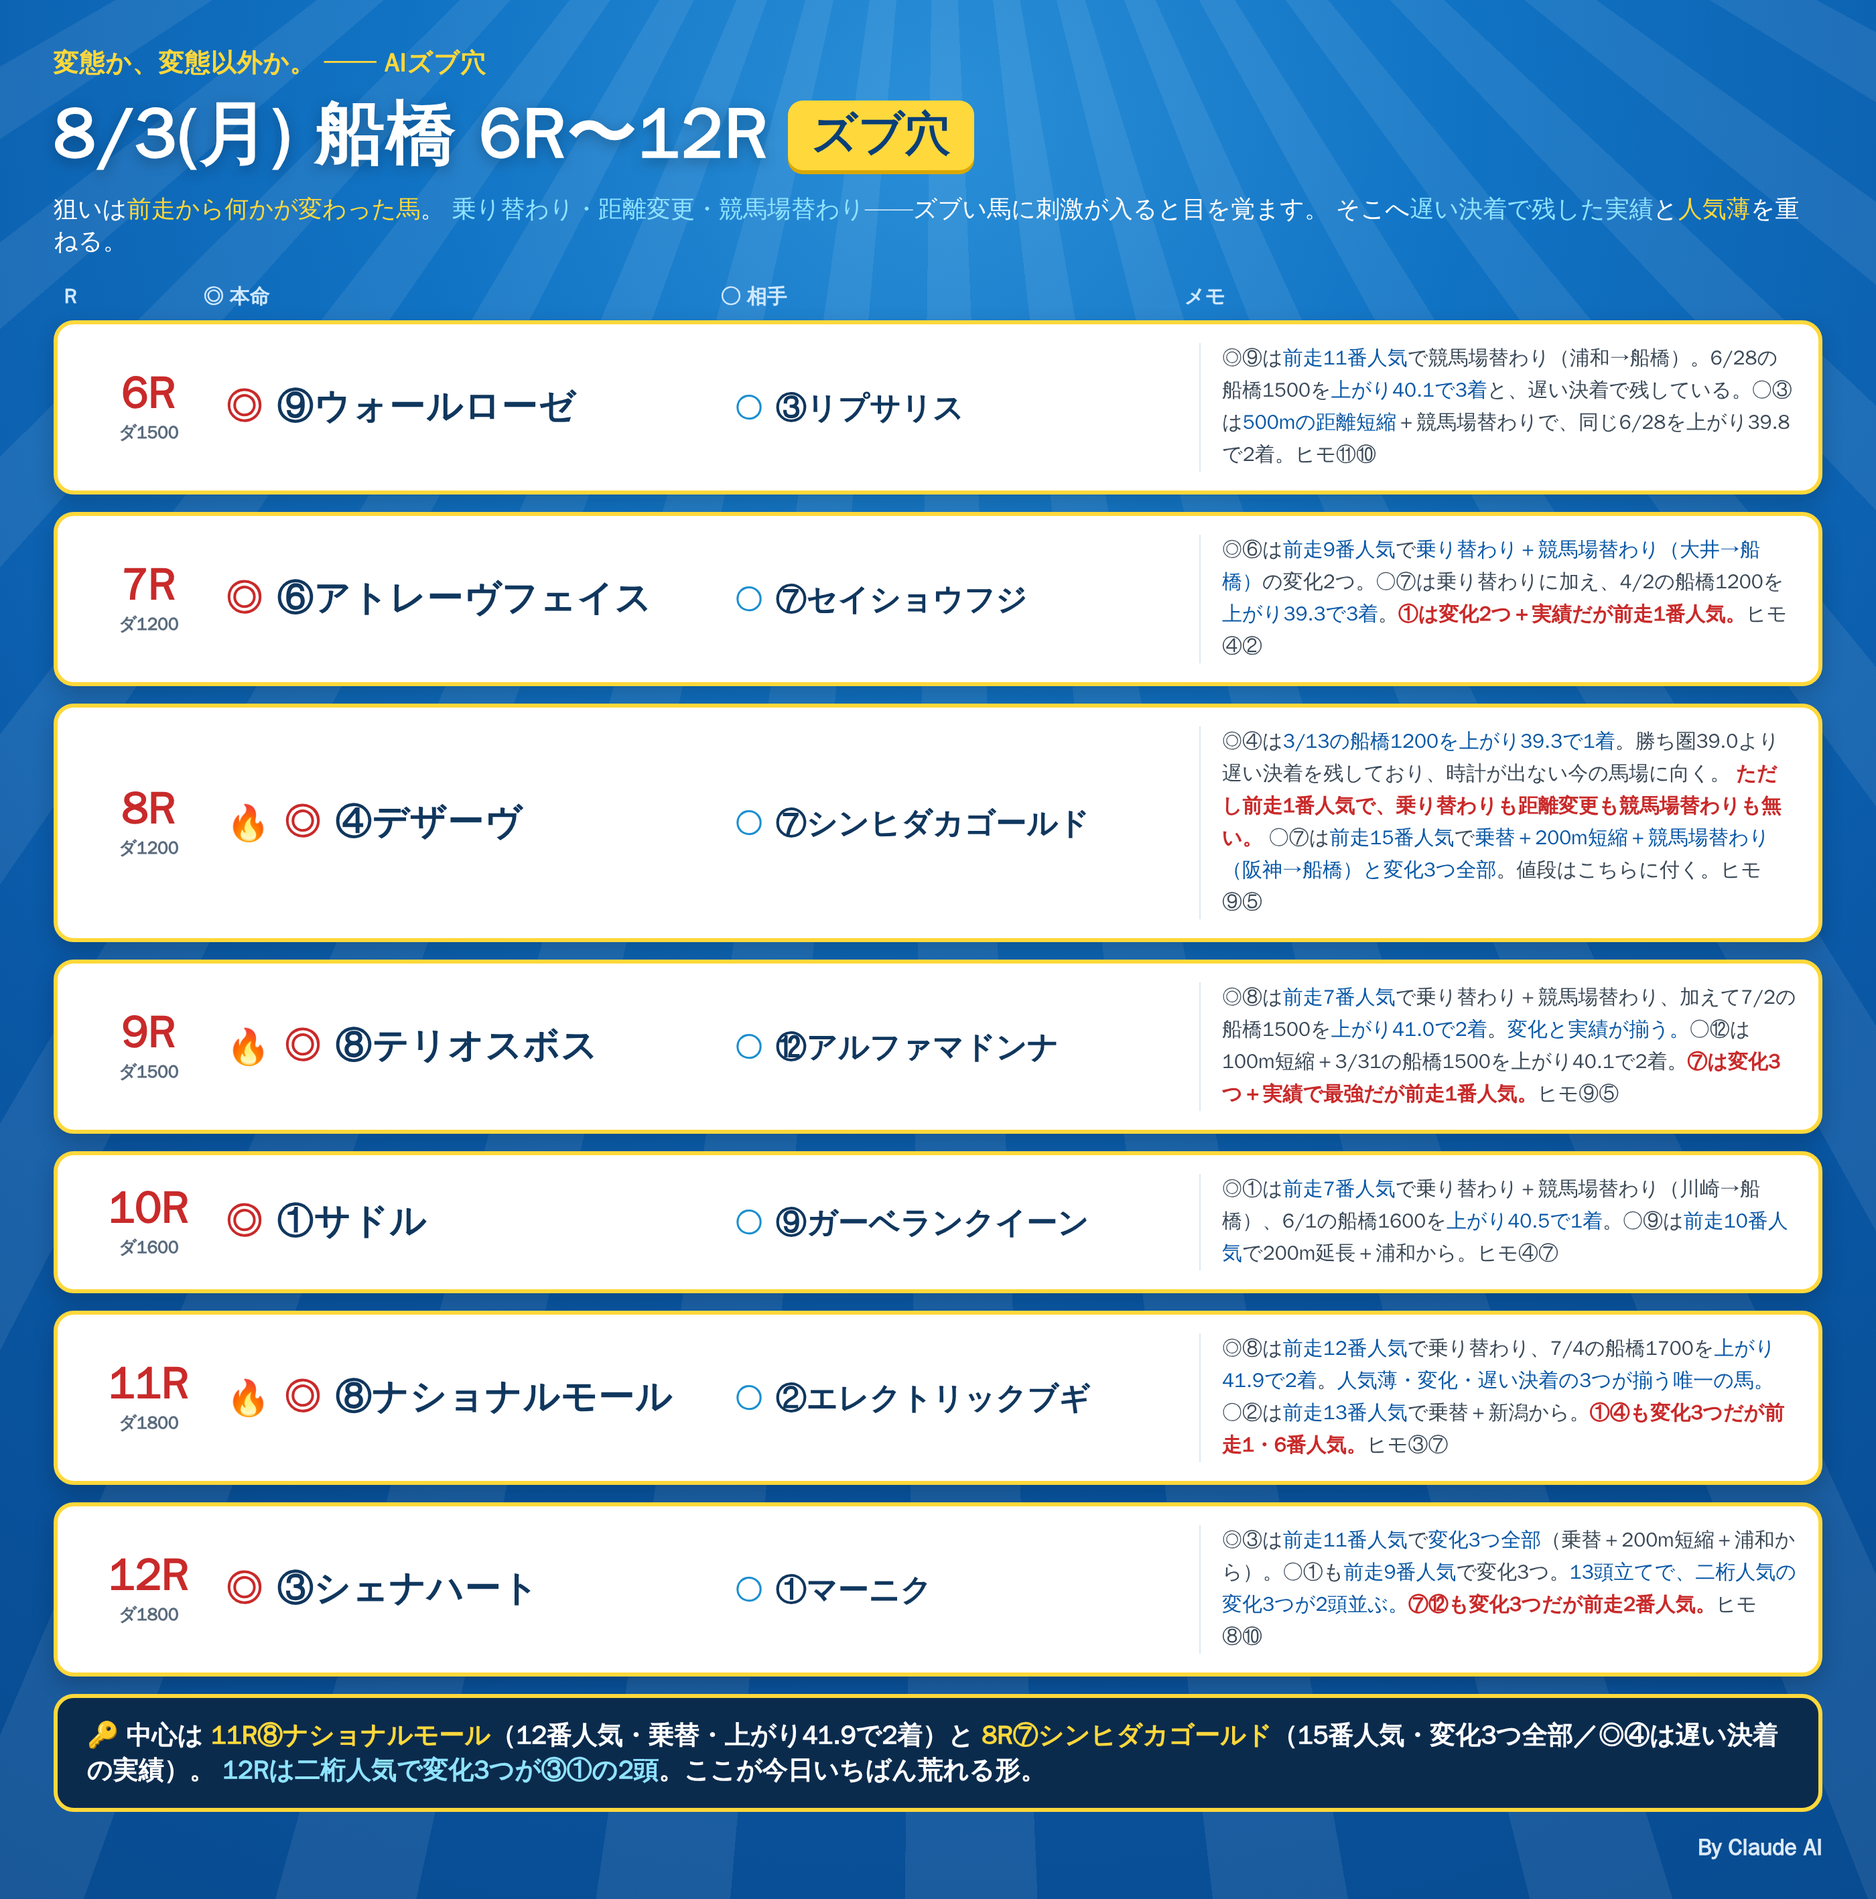
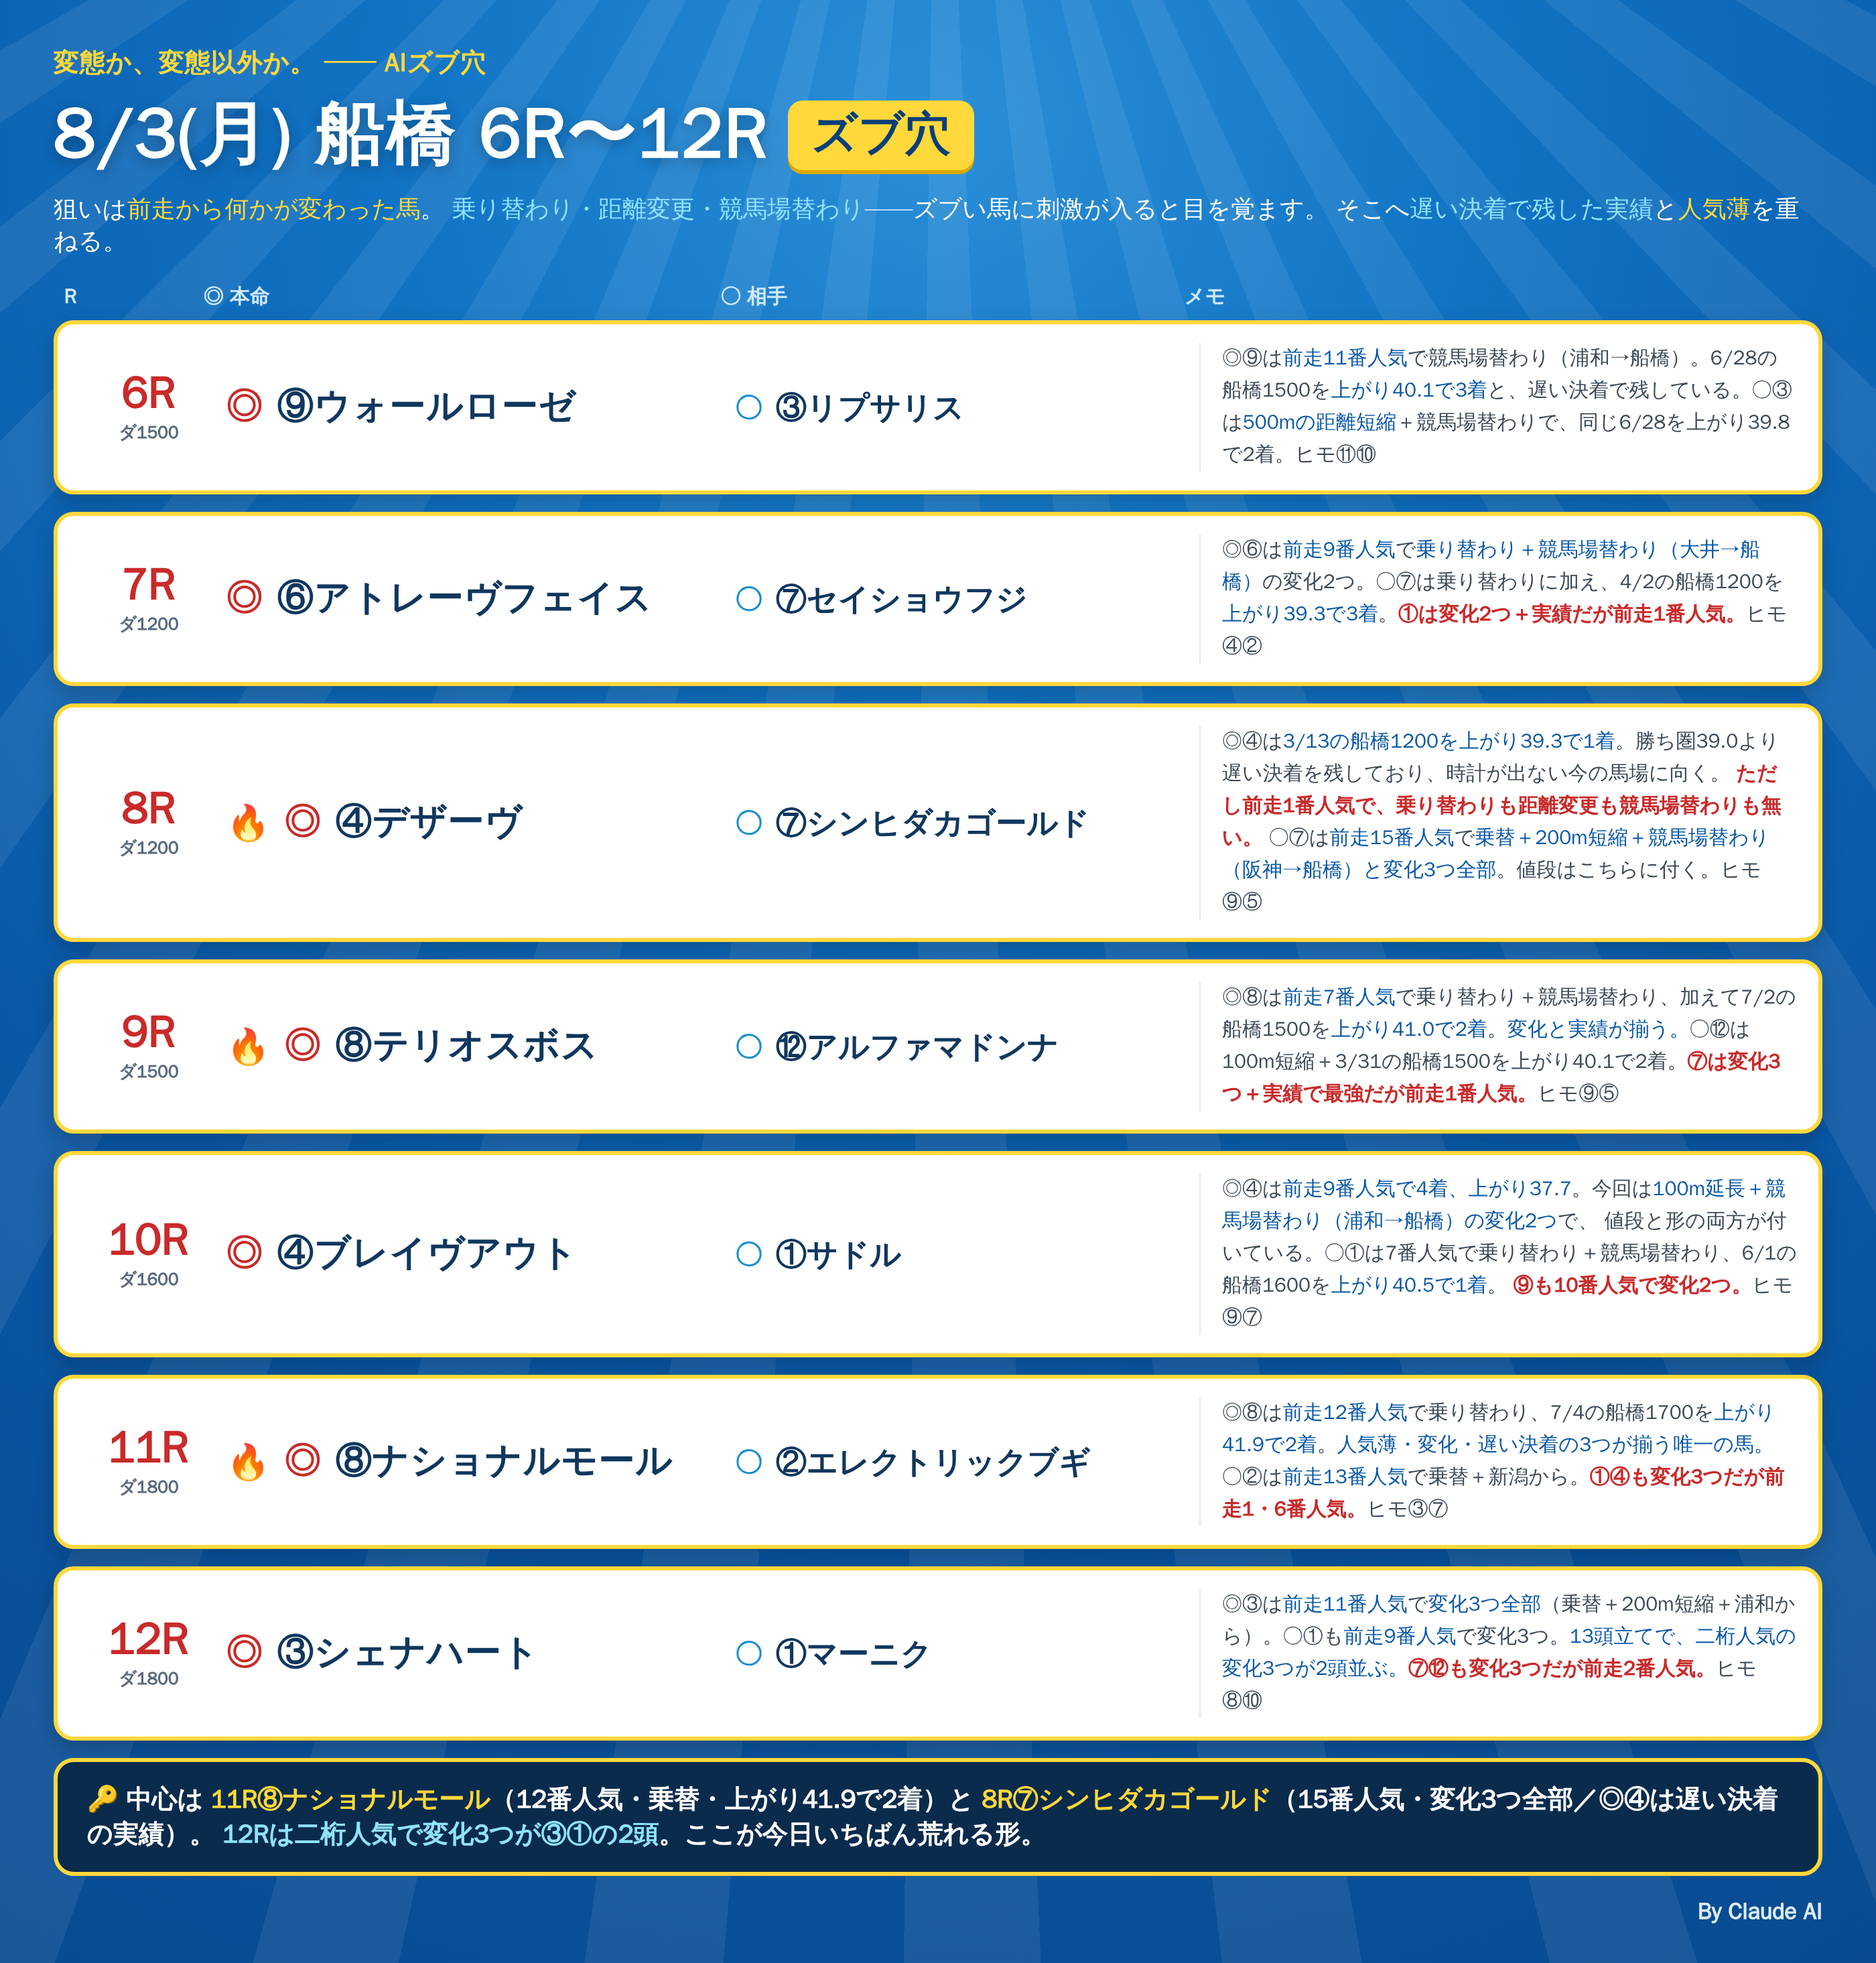
notes: swap 10R to the double-change longshot

Changed region(s): [[0.0311, 0.0311, 0.9943, 0.9936], [0.7146, 0.0932, 0.9632, 0.1242], [0.4039, 0.4037, 0.5904, 0.4347]]

diff --git a/notes/live/2026-08-03/funabashi_6_12_final.html b/notes/live/2026-08-03/funabashi_6_12_final.html
@@ -81,10 +81,13 @@
   </div>
   <div class="row">
     <div class="rN"><div class="n">10R</div><div class="d">ダ1600</div></div>
-    <div class="hm"><span class="mk">◎</span><span class="nm">①サドル</span></div>
-    <div class="at"><span class="mk2">○</span><span class="nm2">⑨ガーベランクイーン</span></div>
-    <div class="memo">◎①は<b>前走7番人気</b>で乗り替わり＋競馬場替わり（川崎→船橋）、6/1の船橋1600を<b>上がり40.5で1着</b>。○⑨は<b>前走10番人気</b>で200m延長＋浦和から。ヒモ④⑦</div>
+    <div class="hm"><span class="mk">◎</span><span class="nm">④ブレイヴアウト</span></div>
+    <div class="at"><span class="mk2">○</span><span class="nm2">①サドル</span></div>
+    <div class="memo">◎④は<b>前走9番人気で4着、上がり37.7</b>。今回は<b>100m延長＋競馬場替わり（浦和→船橋）の変化2つ</b>で、
+    値段と形の両方が付いている。○①は7番人気で乗り替わり＋競馬場替わり、6/1の船橋1600を<b>上がり40.5で1着</b>。
+    <span class='r'>⑨も10番人気で変化2つ。</span>ヒモ⑨⑦</div>
   </div>
+
   <div class="row">
     <div class="rN"><div class="n">11R</div><div class="d">ダ1800</div></div>
     <div class="hm"><span class="fire">🔥</span><span class="mk">◎</span><span class="nm">⑧ナショナルモール</span></div>
